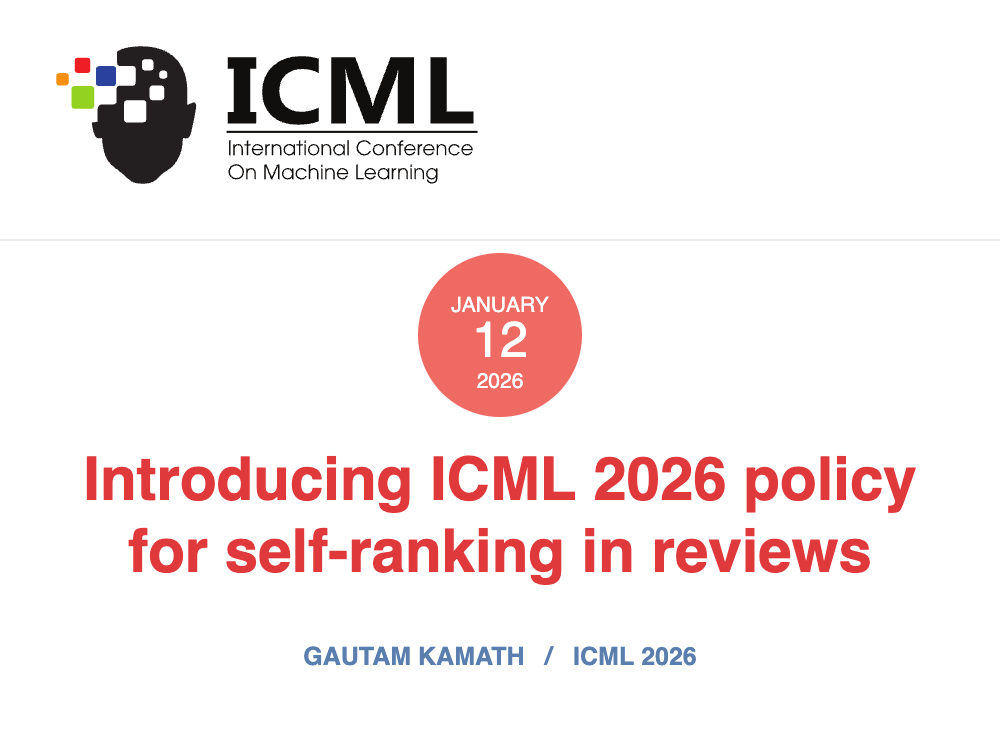
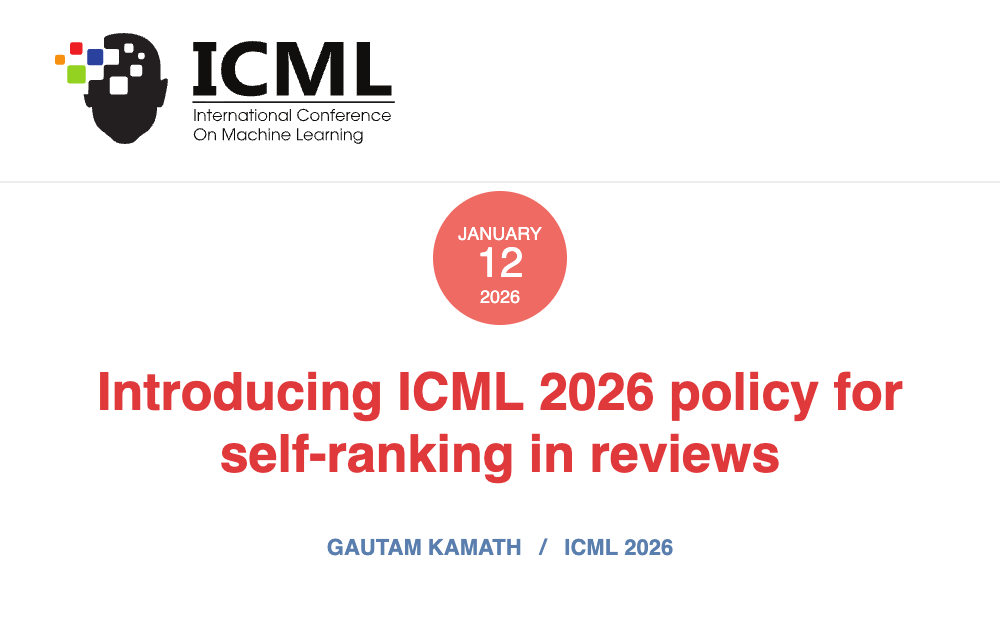
Flatter feature cards (1000x630)

diff --git a/index.html b/index.html
@@ -91,7 +91,7 @@
           </div>
         </div>
         <figure class="pub-figure">
-          <a href="https://blog.icml.cc/2026/01/12/introducing-icml-2026-policy-for-self-ranking-in-reviews/"><img src="assets/feature-icml.png" alt="ICML blog post: Introducing ICML 2026 policy for self-ranking in reviews" loading="lazy" width="800" height="600"></a>
+          <a href="https://blog.icml.cc/2026/01/12/introducing-icml-2026-policy-for-self-ranking-in-reviews/"><img src="assets/feature-icml.png" alt="ICML blog post: Introducing ICML 2026 policy for self-ranking in reviews" loading="lazy" width="1000" height="630"></a>
           <figcaption><a href="https://blog.icml.cc/2026/01/12/introducing-icml-2026-policy-for-self-ranking-in-reviews/">Introducing self-ranking to ICML 2026</a></figcaption>
         </figure>
       </li>
@@ -107,7 +107,7 @@
           </div>
         </div>
         <figure class="pub-figure">
-          <a href="https://www.newscientist.com/article/2454095-simple-fix-could-make-us-census-more-accurate-but-just-as-private/"><img src="assets/feature-newscientist.png" alt="New Scientist article: Simple fix could make US census more accurate but just as private" loading="lazy" width="800" height="600"></a>
+          <a href="https://www.newscientist.com/article/2454095-simple-fix-could-make-us-census-more-accurate-but-just-as-private/"><img src="assets/feature-newscientist.png" alt="New Scientist article: Simple fix could make US census more accurate but just as private" loading="lazy" width="1000" height="630"></a>
           <figcaption><a href="https://www.newscientist.com/article/2454095-simple-fix-could-make-us-census-more-accurate-but-just-as-private/">Featured by New Scientist</a></figcaption>
         </figure>
       </li>
@@ -124,7 +124,7 @@
           </div>
         </div>
         <figure class="pub-figure">
-          <a href="https://www.nature.com/articles/d41586-026-00059-0"><img src="assets/feature-nature.png" alt="Nature Index article: AI research deluge — why one conference is asking authors to rank their own papers" loading="lazy" width="800" height="600"></a>
+          <a href="https://www.nature.com/articles/d41586-026-00059-0"><img src="assets/feature-nature.png" alt="Nature Index article: AI research deluge — why one conference is asking authors to rank their own papers" loading="lazy" width="1000" height="630"></a>
           <figcaption><a href="https://www.nature.com/articles/d41586-026-00059-0">Featured by Nature Index</a></figcaption>
         </figure>
       </li>
